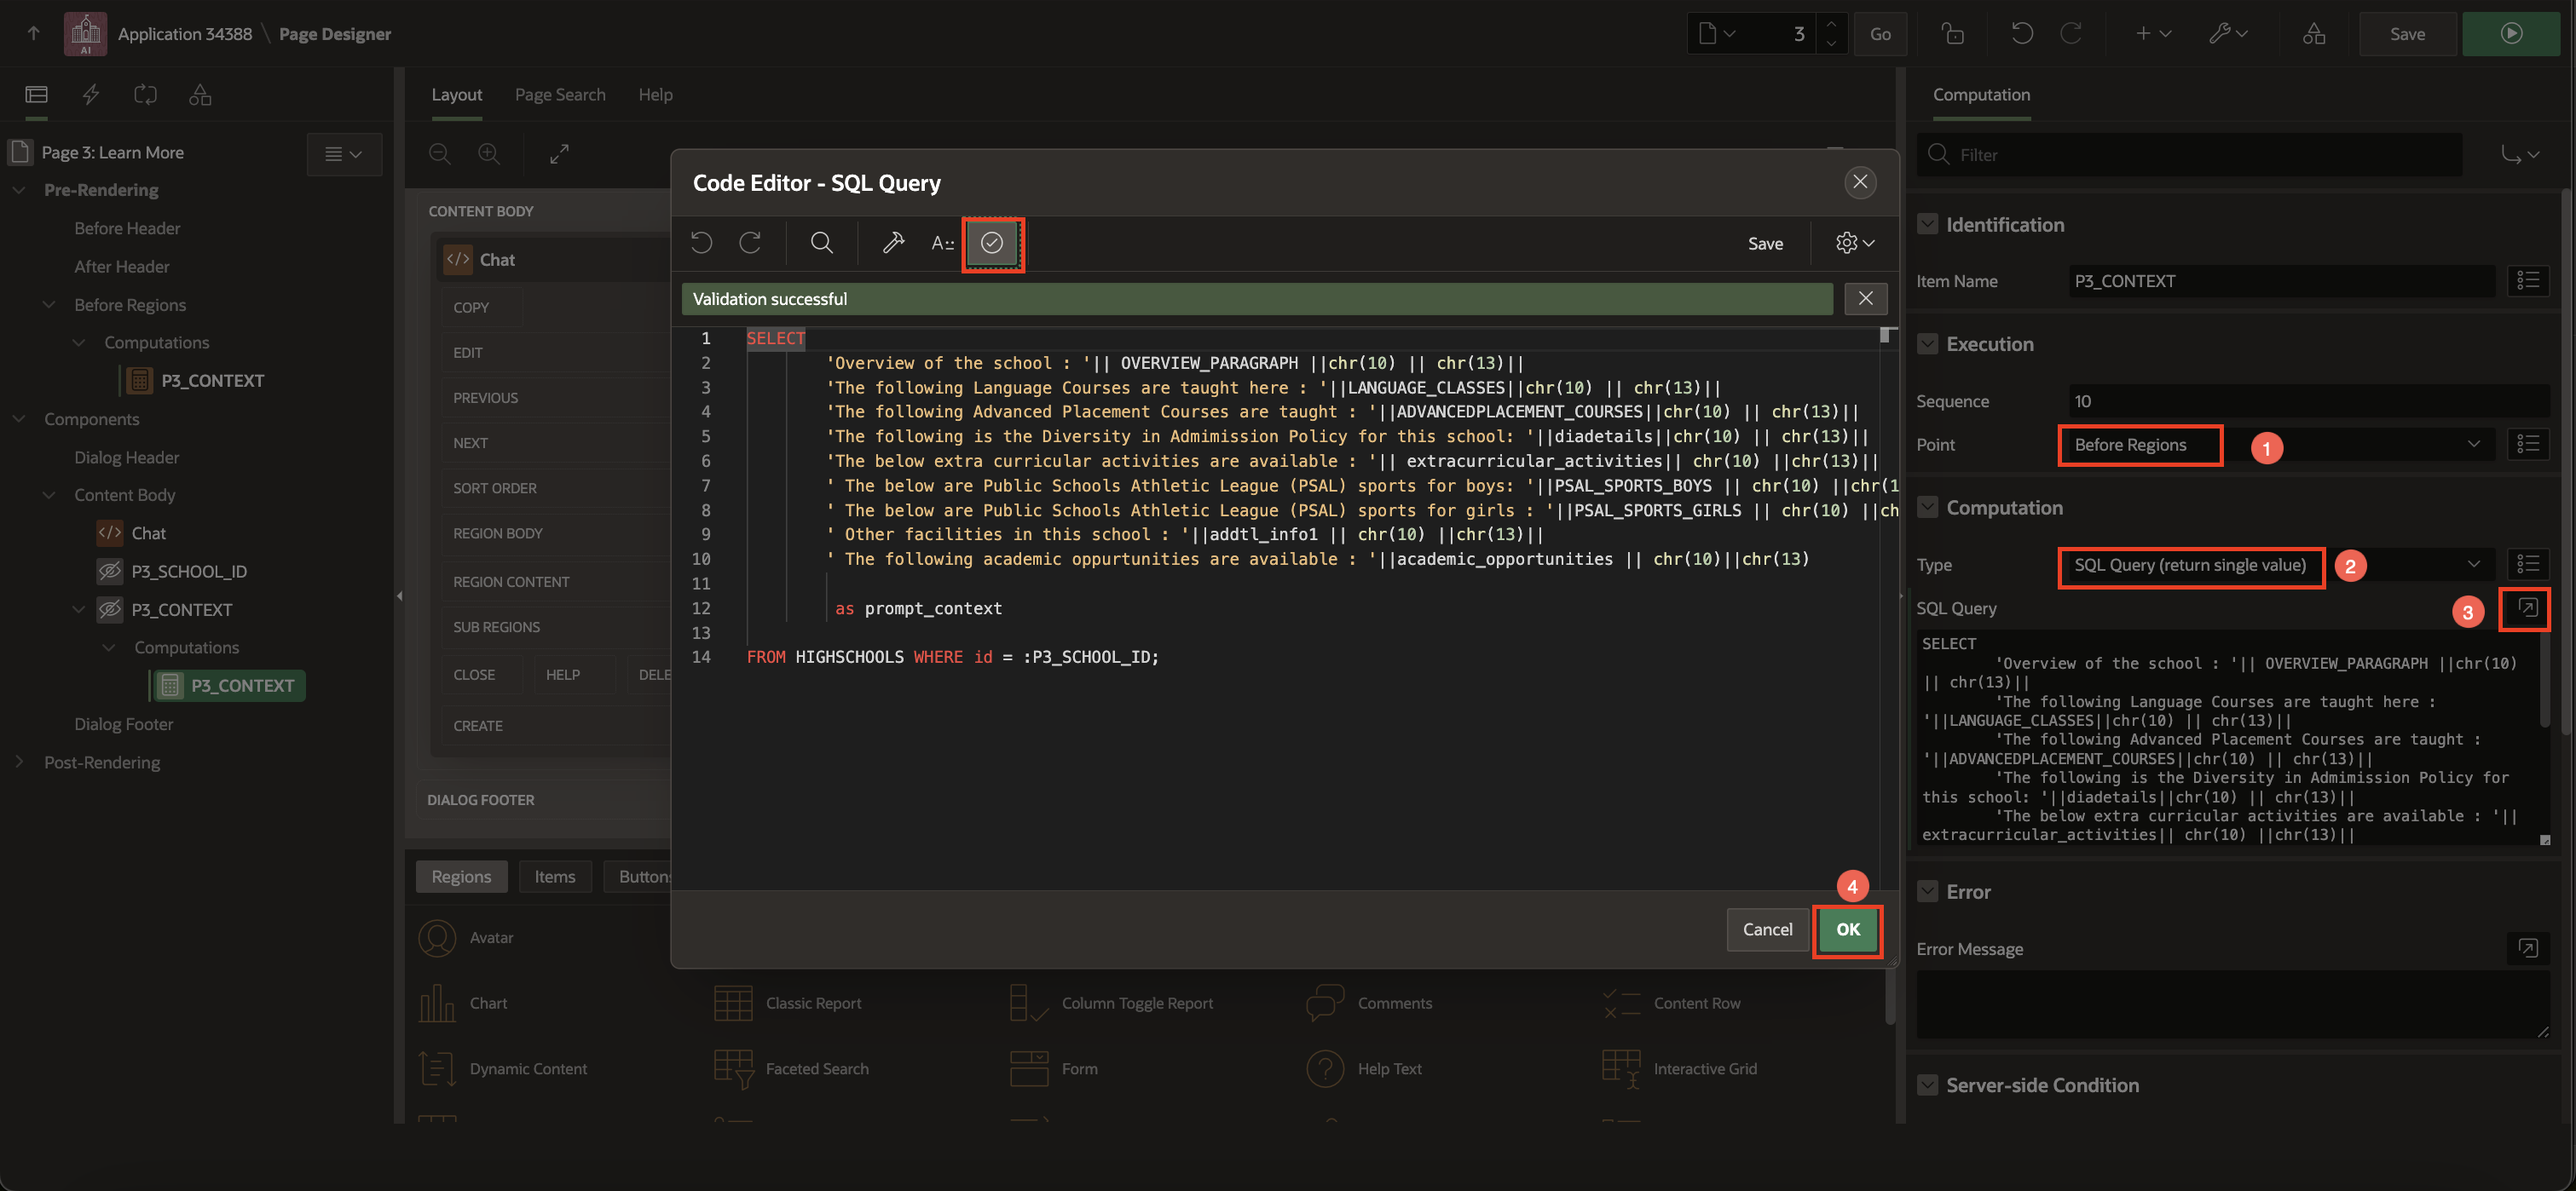
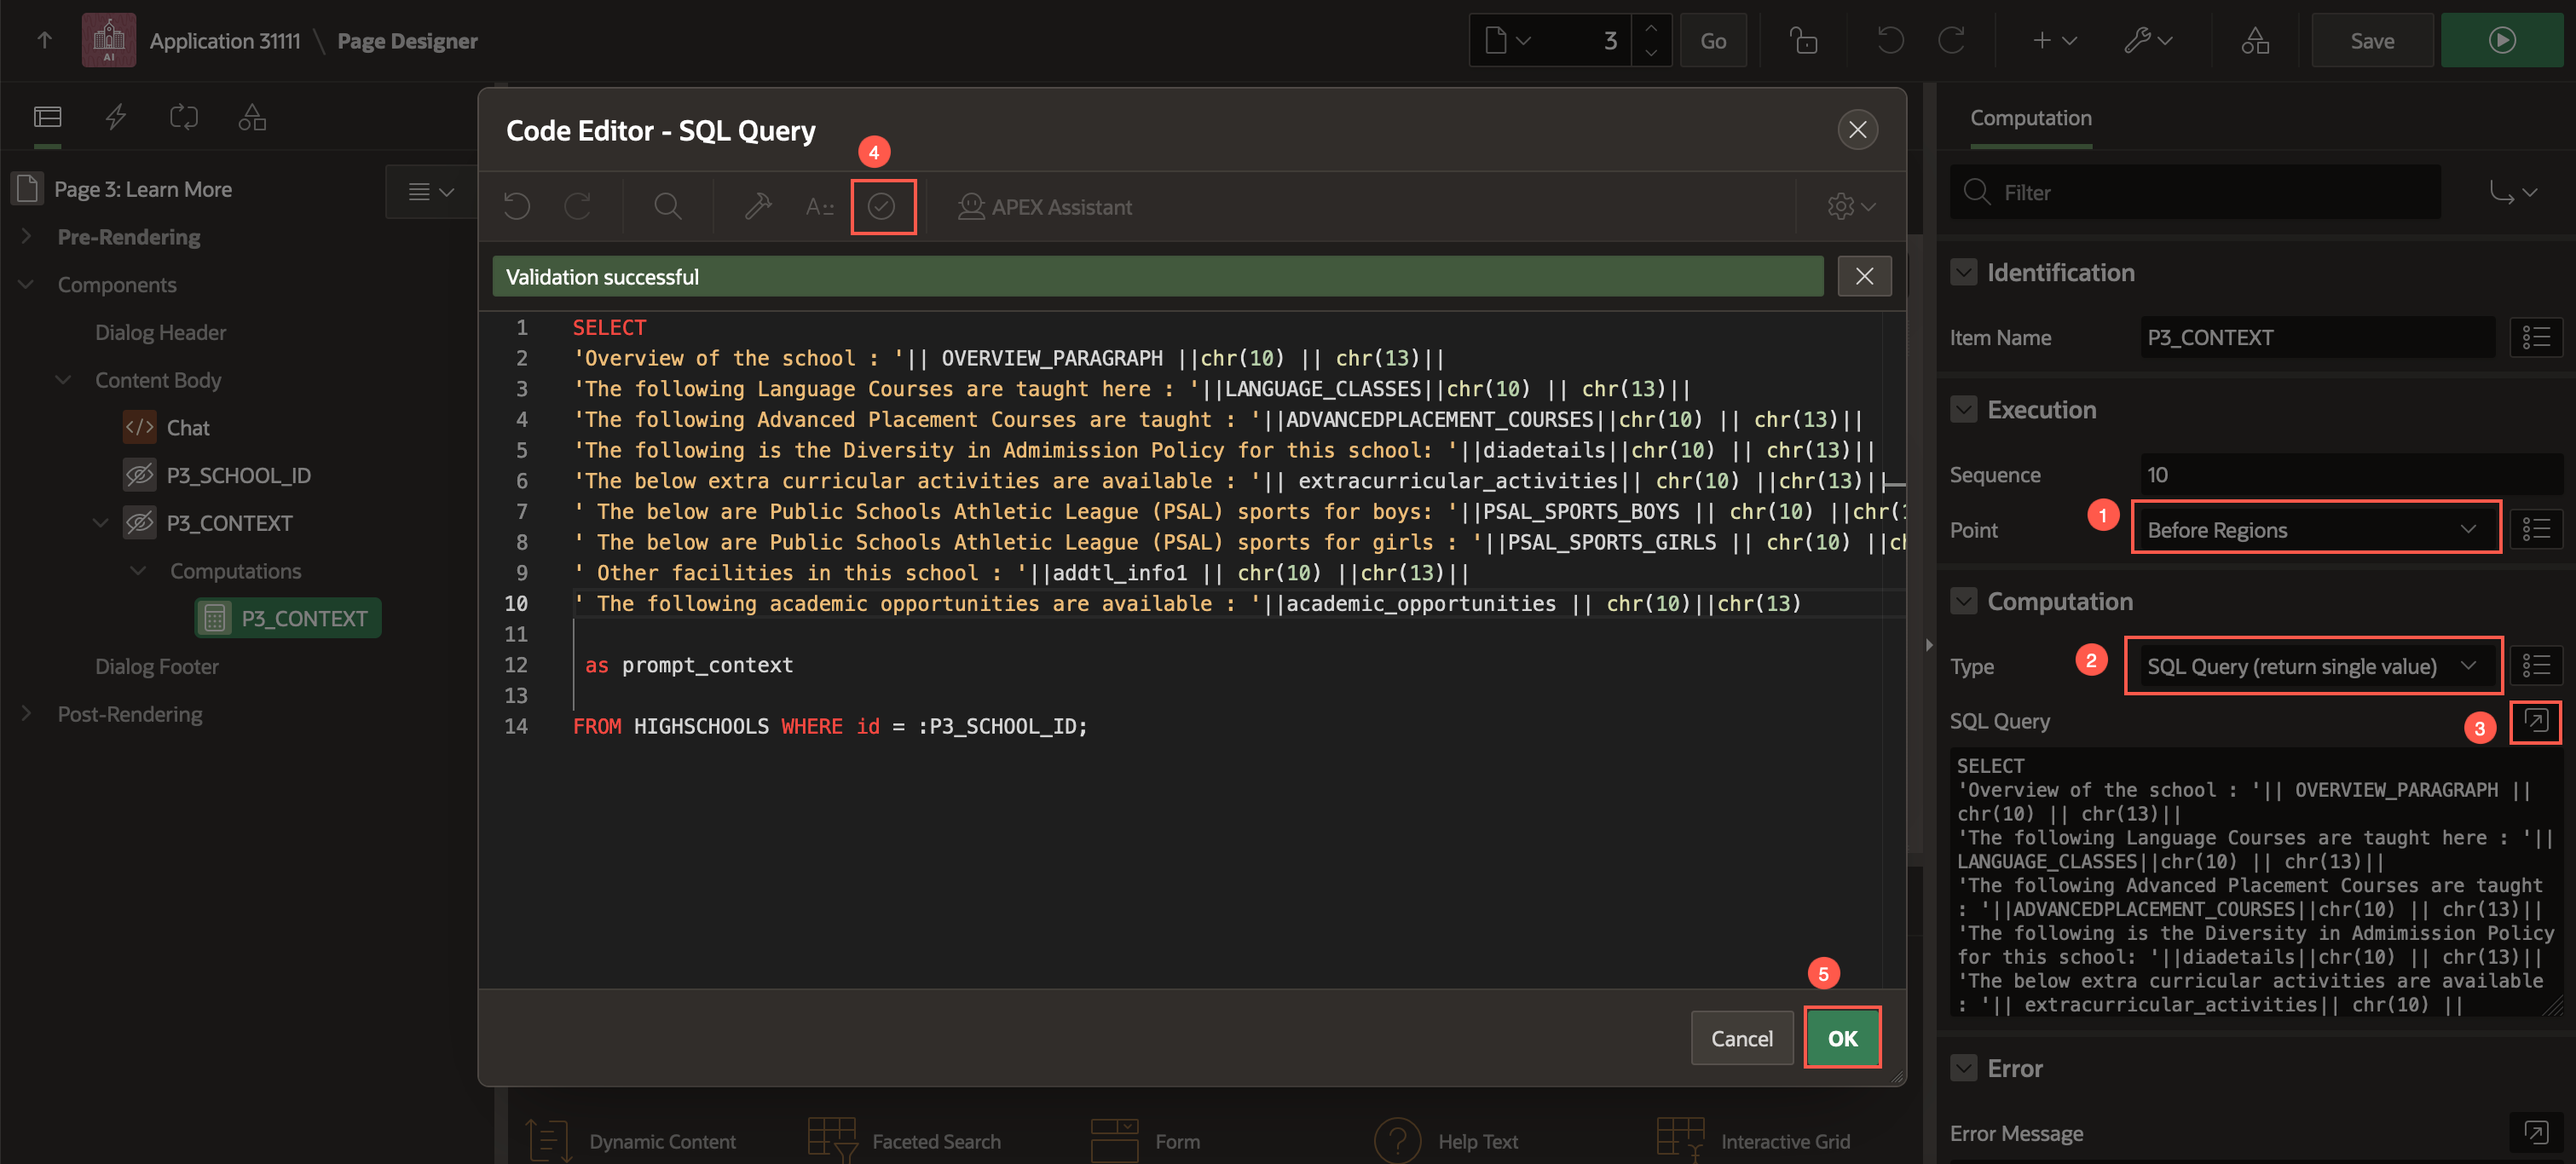
wms 11628: Typo fix  (#165)
* ocw manifest files

* Added Movies-Lab workshop files

* ocw manifest files

* 22.1 updates to Spreadsheet Lab

* 22.1 updates

* Update 1-sign-up-apex.md

* Updated absolute urls

* updated the common urls

* updated the urls

* Added a NOTE to indicate version difference

* updated path for Lab 4

* Updated the paths

* Updated the Workshop Title

* Update screenshot in Task 2 Step 7

* Added alt text to images

* URLS updated in index.html

* Updated the steps for Option 2: Sign up for APEX using ADB

* alt text for images

* Shopping App 22.1 updates

* 22.1 updates

* archiving Shopping Cart 21.2

* Updated manifest files for OCW

* Feedback updated for 22.1

* Updated the PL/SQL code for checkout

* Update process-properties.png

* Feedback update 22.1

* Hid the old walkthrough videos

* Alt text for all images

* Delete clothing-images.zip

* Updated steps for Livelabs Green Button

* Changes to steps for Livelabs Green button

* Fixed the comments wrt PR

* Updated screenshots in Common

* OCW updates to optional labs

* Updated filename in manifest for optional lab

* OCI console Redwood theme screenshots

Replacement of screenshots as per the new Redwood theme for OCI console

* Resolved issue in APEX 22.2 for Task 5

Added an additional step to set the source for Region in Task 5.

* Update manifest.json

Lab 4 was pointing to an invalid lab. I have updated it to the correct folder path.

* First Draft for New Workshop
[…]

diff --git a/nyc-genai-lab/3-using-genai/3-using-genai.md b/nyc-genai-lab/3-using-genai/3-using-genai.md
@@ -119,7 +119,7 @@ To use the Generative AI service in APEX, you need to first configure it at the 
         ' The below are Public Schools Athletic League (PSAL) sports for boys: '||PSAL_SPORTS_BOYS || chr(10) ||chr(13)||
         ' The below are Public Schools Athletic League (PSAL) sports for girls : '||PSAL_SPORTS_GIRLS || chr(10) ||chr(13)||
         ' Other facilities in this school : '||addtl_info1 || chr(10) ||chr(13)||
-        ' The following academic oppurtunities are available : '||academic_opportunities || chr(10)||chr(13)
+        ' The following academic opportunities are available : '||academic_opportunities || chr(10)||chr(13)
  
          as prompt_context
  
